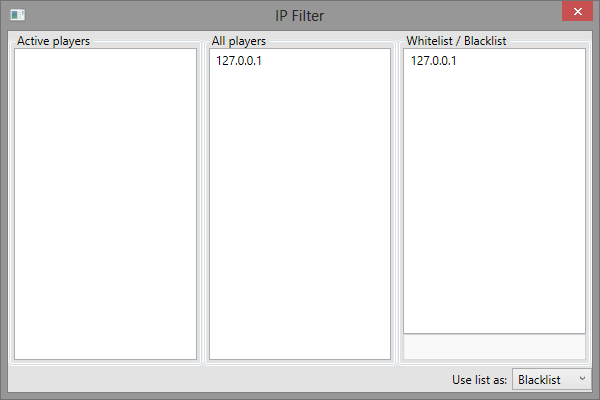
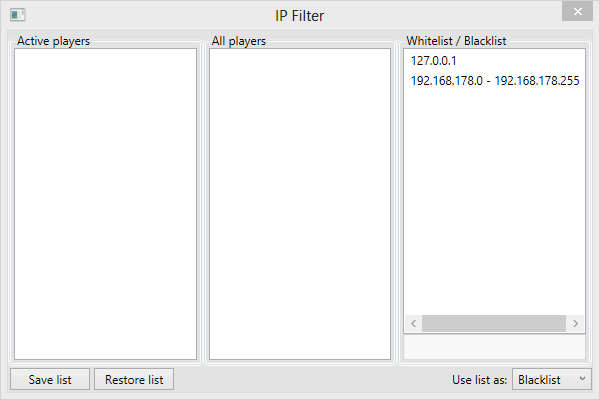
updated documentation

Changed region(s): [[0.0, 0.0, 1.0, 1.0], [0.36, 0.12, 0.45, 0.18]]

diff --git a/cwsweb.html b/cwsweb.html
@@ -36,7 +36,33 @@
     <!-- MAIN CONTENT -->
     <div id="main_content_wrap" class="outer">
       <section id="main_content" class="inner">
-       <p><a href="screenshots/cwsweb_preview.png" data-lightbox="screenshots-1" title="A development screenshot of the CWSWeb interface." data-lightbox="screenshot"><img src="/CWSRestart/screenshots/cwsweb_preview_thumb.png" alt="Screenshot of CWSRestart" style="width: 100%; height: 100%; max-height: 160px; max-width: 200px; float: right"></a>CWSWeb is the first external module for CWSRestart. It implements a basic web server, to display satistics to your users. CWSWeb is not included by default. Not everyone needs a server, so I didn't want to force people to have something they don't need. You'll need to download CWSWeb seperately instead. CWSWeb uses process to process communication to speak with CWSRestart.<br /><br />CWSWeb also includes an API, that allows you to receive data as JSON objects. The first version of CWSWeb will be available with the next release of CWSRestart.</p>
+       <p><a href="screenshots/cwsweb_preview.png" data-lightbox="screenshots-1" title="A development screenshot of the CWSWeb interface." data-lightbox="screenshot"><img src="/CWSRestart/screenshots/cwsweb_preview_thumb.png" alt="Screenshot of CWSRestart" style="width: 100%; height: 100%; max-height: 160px; max-width: 200px; float: right"></a>CWSWeb is the first external module for CWSRestart. It implements a basic web server, to display satistics to your users. CWSWeb is not included by default. Not everyone needs a server, so I didn't want to force people to have something they don't need. You'll need to download CWSWeb seperately instead. CWSWeb uses process to process communication to speak with CWSRestart.<br /><br />CWSWeb also includes an API, that allows you to receive data as JSON objects.</p>
+          <h2>General usage</h2>
+          <p>On the first start of CWSWeb, you might see a UAC prompt, asking you to allow netsh. This is necessary to add a Access List Entry that allows CWSWeb to listen for incoming traffic.</p>
+          <h3>CWSRestart configuration</h3>
+          <p>If you want to use CWSWeb, you first need to enable CWSProtocol in CWSRestart. You can do this with the <i>Start CWSProtocol</i>-button in CWSRestart. If CWSProtocol is disabled, you'll see the message <code>Connection to CWSRestart has timed out</code></p>
+          <p>CWSWeb can display statistics to your users, like the current amount of players and a recent activity chart. Administrators can also see a RAM usage chart, if stats are enabled. To display the numbers only, you simply need to enable statistics in CWSRestart in the bottom right corner. If you want the charts as well, you need to specify a location where CWSRestart can save logfiles. You can use the <i>Save statistics to...</i>-button to do this. Enabling statistics will also allow administrators to edit the access list online.</p>
+          <h3>Server console</h3>
+          <img src="/CWSRestart/screenshots/cwsweb_0.png" alt="Screenshot of CWSRestart" style="width: 100%; height: 100%; max-height: 176px; max-width: 640px;">
+          <p>CWSWeb consists of a console and a web frontend. You can use the console to manage users and test communcation with CWSRestart. The following options are available:</p>
+          <ul>
+              <li><code>quit</code> to shut down the server</li>
+              <li><code>test</code> to test communication with CWSRestart</li>
+              <li><code>list</code> to retreive a list of all current admins</li>
+              <li><code>add</code> to add an admin. Admins are saved on the disc in the file users.db</li>
+              <li><code>remove</code> to remove an admin</li>
+              <li><code>save</code> to save users</li>
+              <li><code>load</code> to restore users</li>
+          </ul>
+          <p>Users are saved when you quit the server and restored when you start the server.</p>
+          <h3>Web frontend</h3>
+          <p><a href="screenshots/cwsweb_1.png" data-lightbox="screenshots-1" title="The CWSWeb frontend." data-lightbox="screenshot"><img src="/CWSRestart/screenshots/cwsweb_1_small.png" alt="Screenshot of CWSRestart" style="width: 100%; height: 100%; max-height: 400px; max-width: 376px;"></a><br />If statistics are enabled, users will be able to see the page above. Graphs are available, if you save your logfiles. The statistics are updated every five seconds. Red lines indicate server restarts.</p>
+          <h3>Administration</h3>
+          <p>To access the administration, point your browser at <code>http://<i>your-ip:8181</i>/admin</code>. If you are running CWSWeb on port 80, <code>http://<i>your-ip</i>/admin</code> should suffice.</p>
+          <p><a href="screenshots/cwsweb_2.png" data-lightbox="screenshots-1" title="The administration controlpanel." data-lightbox="screenshot"><img src="/CWSRestart/screenshots/cwsweb_2_small.png" alt="Screenshot of CWSRestart" style="width: 100%; height: 100%; max-height: 400px; max-width: 376px;"></a><br />The control panel allows you to control the server.exe. You can start and stop it. You can also quit the server, which will try to send the <i>q</i>-Key. If the server is not responding, you can chose to kill it. These operations will also affect the additional processes.<br/>You can also start and stop the watcher from here and change the interval. In addition, you are able to see the output from CWSRestart as well.</p>
+          <p><a href="screenshots/cwsweb_3.png" data-lightbox="screenshots-1" title="The access list management." data-lightbox="screenshot"><img src="/CWSRestart/screenshots/cwsweb_3_small.png" alt="Screenshot of CWSRestart" style="width: 100%; height: 100%; max-height: 400px; max-width: 376px;"></a><br />The access list allows you to manage the IP filter. You can specify the list mode and add players. You can also kick connected players. In order to use access control, CWSRestart has to run with elevated privileges, i.e. as admin.</p>
+          <p><a href="screenshots/cwsweb_4.png" data-lightbox="screenshots-1" title="The RAM statistics." data-lightbox="screenshot"><img src="/CWSRestart/screenshots/cwsweb_4_small.png" alt="Screenshot of CWSRestart" style="width: 100%; height: 100%; max-height: 400px; max-width: 376px;"></a><br />As administrator, you are able to see the RAM usage in relation to the amount of players. Statistics are updated every 5 to 10 seconds.</p>
+          <p></p>
           <h2>Configuration</h2>
           <p>At the moment, there isnt much to configure. You can change the port on which the web service is listening, by launching CWSWeb with <code>CWSWeb <i>port</i></code> (for instance, if you'd like to have CWSWeb listen on port 80, you can launch it with <code>CWSWeb 80</code>). The displayed graph is generated, by parsing the logfile. To enable the graph, you'll need to specify a save location for the logfile in CWSRestart (use the button <i>Save statistics to...</i> to do this). By default, the last 200 lines will be read. This equals around half an hour. If you want to increase the timespan, you have several possibilities:</p>
           <ul>
@@ -49,6 +75,11 @@
           <ul>
               <li><code>/API/stats</code> will return all available info, such as runtime and if the server is running</li>
               <li><code>/API/stats/playeractivity</code> will return the user activity over the past time</li>
+              <li><code>/API/stats/serverrestarts</code> will return timestamps, indicating when the server has been restarted</li>
+          </ul>
+          <p>The following urls are restricted to logged in users:</p>
+          <ul>
+              <li><code>/API/stats/memoryusage</code> will return the memory usage of the server</li>
           </ul>
           <p>You'll get the objects serialized as JSON. Timestamps are formated a bit odd. You can parse them to JavaScript dates with <code>new Date(parseInt(<i>timestamp</i>.substr(6)))</code></p>
       </section>

diff --git a/manual.html b/manual.html
@@ -49,17 +49,17 @@
           <p>With <i>Validate configuration</i> you can check, if all settings are set.</p>
           <p>The checkboxes below the log can be used to filter messages.</p>
           <p>If you want to use <a href="cwsweb.html">CWSWeb</a>, you need to enable procces to process communication. You can start/stop comunication with the button <i>Start CWSProtocol</i></p>
-          </p>
                 
           <h2 id="stats">Statistics &amp; Access control</h2>
           <p>CWSRestart can also keep track on a few numbers. The statistics module is disabled by default. You can start it with the <i>Enable statistics</i> button in the bottom right corner.</p>
           <p>The statistics module can store collected data in a CSV file. Hit the <i>Save statistics to...</i> button, to select where CWSRestart should store the data.</p>
-          <p>Enabling the statistics module will grant you access to the <a href="/CWSRestart/screenshots/guide4.png" data-lightbox="IPfilter">IP Filter</a>. You can add/remove IPs by double clicking, or by using the textbox on the bottom right. Beneath the textbox, you can select the filter mode:</p>
+          <p>Enabling the statistics module will grant you access to the <a href="/CWSRestart/screenshots/guide4.png" data-lightbox="IPfilter">IP Filter</a>. You can add/remove IPs by double clicking on an entry in one of the two boxes to the left, or by using the textbox on the bottom right. If you want to add an IP manually, you can either add a range in the form of <code>XXX.XXX.XXX.XXX - XXX.XXX.XXX.XXX</code> or a single IP. You can save/restore the list with the buttons on the lower left. You can also edit the <i>iplist.txt</i> in the CWSRestart folder manually and use the <i>Restore</i> button, to load changes.<br /><br />Beneath the textbox, you can select the filter mode:</p>
           <ul>
               <li>Whitelist: Every player, that is not Whitelist will be kicked</li>
               <li>Blacklist: Every player, that is on the Blacklist will be kicked</li>
           </ul>
           <p>To use Access control, you need to run CWSRestart as administrator.</p>
+          <p>Disconnecting will display a return code in the log. <code>317</code> indicates, that CWSRestart has not enough privileges to terminate the connection. If everyting works fine, you should see a 0.</p>
           <p>When you are running CWSRestart as administrator, the server.exe will be started as administrator as well. If you want to run the server.exe as a restricted user, you have to start the server.exe through a .bat. Create a new file in the CubeWorld directory and rename it to <code>startRestricted.bat</code>. Now edit this file and insert the line <code>explorer server.exe</code>. Select the <code>startRestricted.bat</code> with the <i>Select...</i> button. The downside of this method is, that you'll lose the ability to see the server output in the log.</p>
           <h2 id="advanced">Advanced settings</h2>
           <p>There are some settings, that are only editable via the ServerService.dll.config in the CWSRestart folder.</p>
